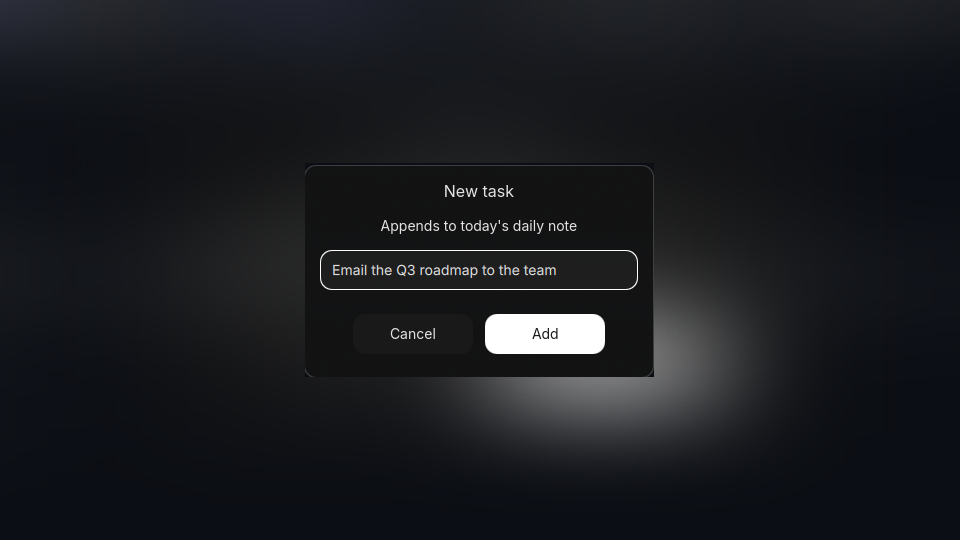
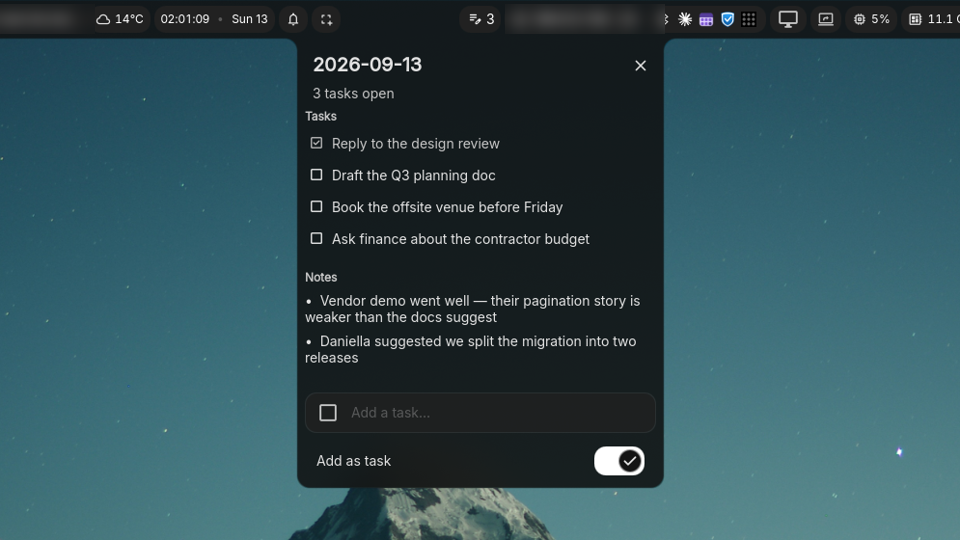
Screenshot: show the bar widget popout with today's note
Demonstrates the widget rather than just the capture modal — open task
count in the pill, checkbox states, notes, and the inline quick-add.

Also fixes stale 'Vault:' hotkey overlay titles left over from the rename.

diff --git a/README.md b/README.md
@@ -33,8 +33,8 @@ Nothing is bound by default. For niri:
 
 ```kdl
 binds {
-    Mod+Ctrl+N hotkey-overlay-title="Vault: Note" { spawn "dms" "ipc" "call" "obsidianCapture" "note"; }
-    Mod+Ctrl+T hotkey-overlay-title="Vault: Task" { spawn "dms" "ipc" "call" "obsidianCapture" "task"; }
+    Mod+Ctrl+N hotkey-overlay-title="Obsidian: Note" { spawn "dms" "ipc" "call" "obsidianCapture" "note"; }
+    Mod+Ctrl+T hotkey-overlay-title="Obsidian: Task" { spawn "dms" "ipc" "call" "obsidianCapture" "task"; }
 }
 ```
 
